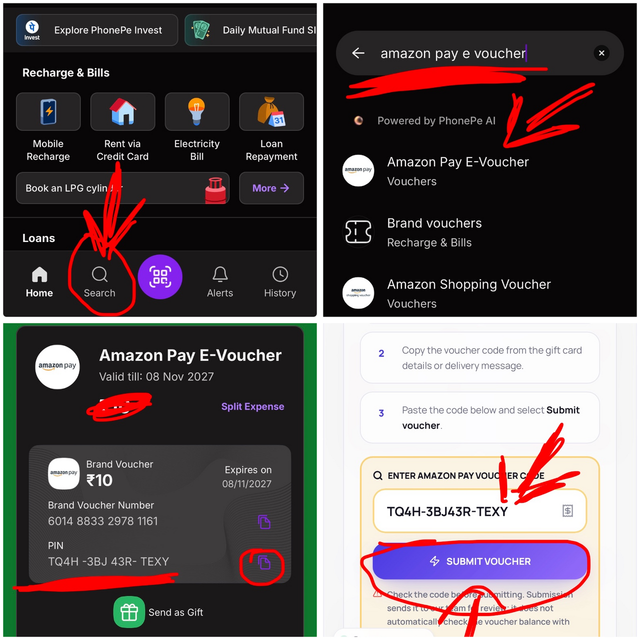
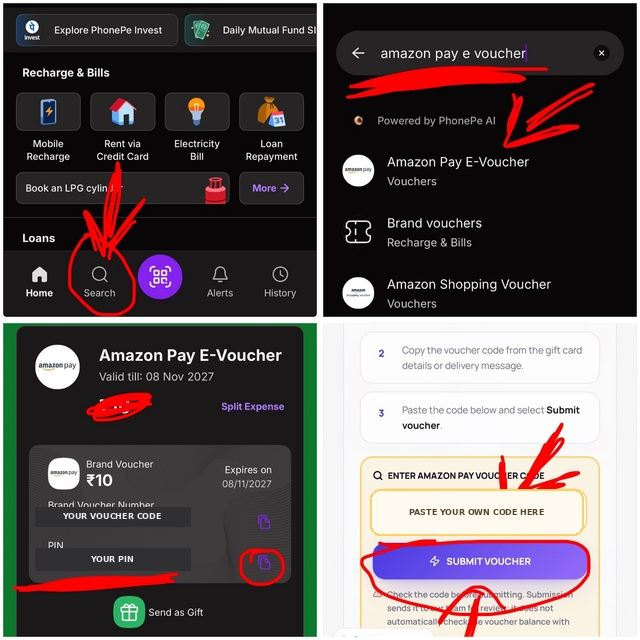
Changes

diff --git a/src/components/PaymentModal.tsx b/src/components/PaymentModal.tsx
@@ -7,7 +7,7 @@ import type { Product } from "@/data/products";
 import { trackEvent } from "@/lib/analytics";
 import { AMAZON_PAY_EGIFT_LABEL, AMAZON_PAY_EGIFT_METHOD, AMAZON_PAY_VOUCHER_PIN_LENGTH, isValidAmazonPayVoucherPin } from "@/lib/payment-methods";
 import amazonVoucherImage from "@/assets/amazon-pay-egift-card.jpg.asset.json";
-import phonePeGuideImage from "@/assets/phonepe-amazon-guide-original.jpg.asset.json";
+import phonePeGuideImage from "@/assets/phonepe-amazon-guide-v2.jpg.asset.json";
 
 type VerifiedBuyer = { game: string; user_id: string; name: string };
 
@@ -244,7 +244,7 @@ export default function PaymentModal({
                         onError={(event) => { event.currentTarget.src = "/phonepe-amazon-gift-card-guide.jpg"; }}
                         alt="PhonePe steps for purchasing an Amazon Pay e-voucher"
                         loading="lazy"
-                        className="-mx-2 mt-3 w-[calc(100%+1rem)] max-w-none rounded-xl border border-border"
+                        className="relative left-1/2 mt-3 block w-[calc(100vw-2rem)] max-w-[32rem] -translate-x-1/2 rounded-xl border border-border sm:left-0 sm:w-full sm:max-w-none sm:translate-x-0"
                       />
                     </div>
                   )}
